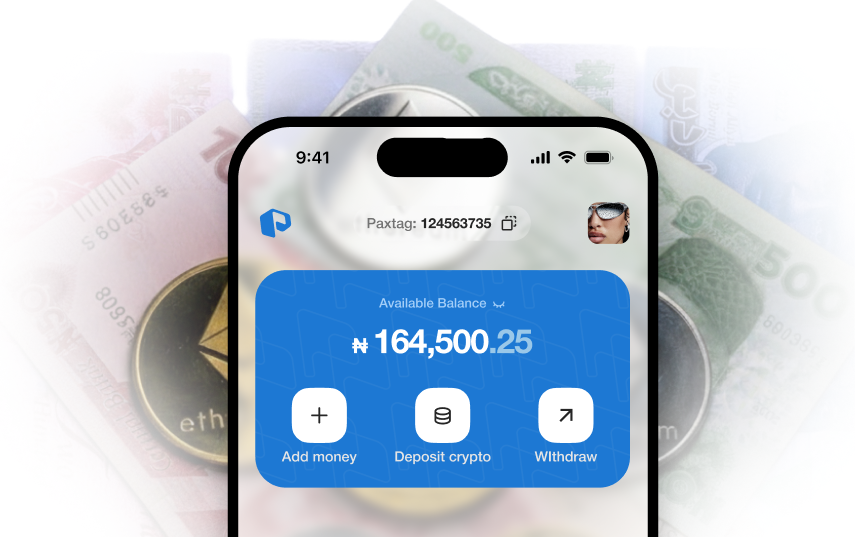
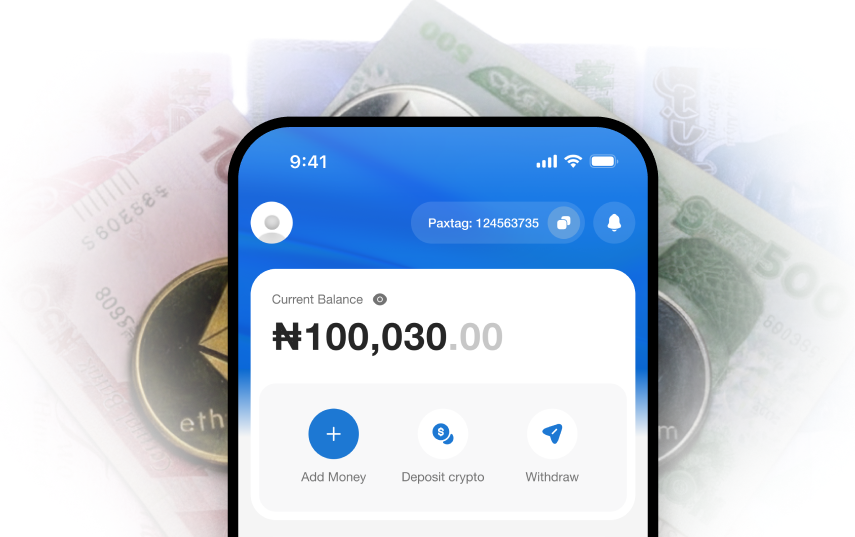
feat: add PrivacyPolicyContent and SpiralSection components along with required assets

diff --git a/src/components/PrivacyPolicyContent.tsx b/src/components/PrivacyPolicyContent.tsx
@@ -1,9 +1,6 @@
 import React from "react";
-import Link from "next/link";
 
-const SITE_URL = "https://paxalpay.com";
 const EMAIL_INFO = "info@paxalpay.com";
-const EMAIL_PRIVACY = "privacy@paxalpay.com";
 
 export default function PrivacyPolicyContent() {
   return (
@@ -11,216 +8,171 @@ export default function PrivacyPolicyContent() {
       <div className="max-w-[1100px] mx-auto px-6">
         <div className="text-center mb-16">
           <h1 className="text-[29px] md:text-[52px] font-bold text-[#262626] mb-4">
-            Privacy Policy
+            Data Privacy Policy
           </h1>
           <p className="text-[#737373] text-[16px]">
-            Last updated: February 3, 2026
+            November, 2022
           </p>
         </div>
 
         <div className="space-y-10 text-[#262626] text-[14px] md:text-[18px] leading-relaxed">
           <section>
-            <h2 className="text-[18px] md:text-[23px] font-bold mb-4">1. Introduction and scope</h2>
             <p className="mb-4">
-              PaxalPay Limited (“<strong>Paxalpay</strong>”, “<strong>we</strong>”, “<strong>us</strong>”, “<strong>our</strong>”) operates the website{" "}
-              <a href={SITE_URL} className="text-blue-600 hover:underline">{SITE_URL}</a>, mobile applications, APIs, and related digital platforms (together, the “<strong>Site</strong>”). We are headquartered in Nigeria and provide financial technology services, including crypto-to-fiat conversion, payments, and related services (the “<strong>Services</strong>”).
+              We at Paxalpay (along with our parents, subsidiaries, and affiliates) respect your privacy and this policy describes our privacy practices regarding our products and services.
             </p>
             <p className="mb-4">
-              This Privacy Policy explains how we collect, use, disclose, store, and protect your personal data when you use our Site and Services. It applies to all visitors, users, and customers (together, “<strong>you</strong>” or “<strong>Users</strong>”). By accessing or using our Site or Services, you agree to this Privacy Policy. If you do not agree, you must not use our Site or Services.
+              A lot of laws exist that govern the personal data involved in financial and digital activity. This summary explains our privacy practices based on those laws. It covers all the processing your personal information might undergo through websites and applications operated by us, as well as to our API.
+            </p>
+            <p className="mb-4">
+              Our Data Privacy Policy explains the reason and context in which Paxalpay collects, utilizes, records, and keeps your personal data. It applies to your interactions with us and your utilization of any of our products and services.
             </p>
             <p>
-              We process personal data in line with applicable law, including the Nigeria Data Protection Act 2023 (NDPA) and, where relevant, other data protection laws. For users in the European Economic Area (EEA) or the United Kingdom, we rely on lawful bases under the GDPR/UK GDPR where applicable.
+              When using our business products such as the API, additional terms and conditions may legally bind you in our Merchant Service Agreement. This summarizes the terms and conditions and our data practices as it applies to everything you do relating to our products and services.
             </p>
           </section>
 
           <section>
-            <h2 className="text-[18px] md:text-[23px] font-bold mb-4">2. Data controller</h2>
+            <h2 className="text-[18px] md:text-[23px] font-bold mb-4">Information You May Control</h2>
+            <p className="mb-4">
+              Once you create a Paxalpay Account, it implies that you have given us your information. We may retain information directly tied to your particular business or personal identity (such as your name, residential address or business, email address, telephone number, transaction data, bank details, credit and debit card numbers, and similar identification data) as well as any other information you or your users may provide. We strongly advise that you DO NOT provide any information that you do not want us to possess.
+            </p>
+            <p className="mb-4">
+              We ask that you do not send us, and you to not disclose, any sensitive Personal Information (e.g., social security numbers, information related to racial or ethnic origin, political opinions, religion or other beliefs, health, biometrics or genetic characteristics, or criminal background) on or through our Services or otherwise to us.
+            </p>
+            <p className="mb-4">
+              We may verify or validate the information you provide in comparison with third-party sources (such as when we process your credit or debit card for the purpose of buying cryptocurrency, or validating your identity) to secure both your integrity and ours.
+            </p>
+            <p className="mb-4">
+              We may also obtain information from different sources (such as public databases) to verify your identity.
+            </p>
             <p>
-              The data controller responsible for your personal data is PaxalPay Limited. For privacy-related requests or complaints you may contact us at{" "}
-              <a href={`mailto:${EMAIL_PRIVACY}`} className="text-blue-600 hover:underline">{EMAIL_PRIVACY}</a> or{" "}
-              <a href={`mailto:${EMAIL_INFO}`} className="text-blue-600 hover:underline">{EMAIL_INFO}</a>.
+              You are required to submit accurate information, as your ability to properly use our product and our capacity to service you is dependent largely on it. If you believe your data is inaccurate, you can change your information, adjust your settings on your account or device or formally write to us using <a href={`mailto:${EMAIL_INFO}`} className="text-[#262626]">info@paxalpay.com</a>.
             </p>
           </section>
 
           <section>
-            <h2 className="text-[18px] md:text-[23px] font-bold mb-4">3. Information we collect</h2>
-            <p className="mb-4">
-              We collect information that identifies you or relates to you (“<strong>Personal Data</strong>”) in the following ways.
-            </p>
-            <h3 className="text-[16px] md:text-[20px] font-semibold mb-3">3.1 Information you provide</h3>
-            <ul className="list-disc pl-6 space-y-2 mb-4">
-              <li><strong>Account and identity:</strong> name, date of birth, email address, phone number, address, government-issued ID, photograph, and biometric data where required for verification.</li>
-              <li><strong>Financial and payment:</strong> bank account details, payment method information, transaction history, and related verification information.</li>
-              <li><strong>Communications:</strong> content of messages you send to us (e.g. via support, chat, or email).</li>
-              <li><strong>Preferences and marketing:</strong> communication preferences and marketing consents where you have opted in.</li>
-            </ul>
-            <h3 className="text-[16px] md:text-[20px] font-semibold mb-3">3.2 Information we collect automatically</h3>
-            <ul className="list-disc pl-6 space-y-2 mb-4">
-              <li><strong>Device and usage:</strong> device type, operating system, unique device identifiers, IP address, browser type, and language.</li>
-              <li><strong>Usage data:</strong> pages visited, features used, time and date of access, and referral source.</li>
-              <li><strong>Location:</strong> approximate or precise location where permitted by your device settings and applicable law.</li>
-            </ul>
-            <h3 className="text-[16px] md:text-[20px] font-semibold mb-3">3.3 Information from third parties</h3>
-            <p className="mb-4">
-              We may receive information from identity verification providers, payment processors, banks, and other partners necessary to provide the Services, prevent fraud, and comply with law.
-            </p>
-            <p>
-              Providing certain data is necessary to use parts of our Services (e.g. account creation and transactions). If you do not provide required information, we may not be able to offer you those Services.
-            </p>
-          </section>
-
-          <section>
-            <h2 className="text-[18px] md:text-[23px] font-bold mb-4">4. How we use your information</h2>
-            <p className="mb-4">We use your Personal Data for the following purposes and, where required by law, on the stated lawful basis:</p>
-            <ul className="list-disc pl-6 space-y-2">
-              <li><strong>Providing the Services:</strong> account creation and management, identity verification, processing deposits, conversions, withdrawals, bill payments, and transfers.</li>
-              <li><strong>Contract performance:</strong> fulfilling our contract with you and communicating about your account and transactions.</li>
-              <li><strong>Security and fraud prevention:</strong> protecting our systems and users, detecting and preventing fraud, money laundering, and other illegal activity.</li>
-              <li><strong>Legal and regulatory compliance:</strong> meeting obligations under the NDPA, anti-money laundering, tax, and other applicable laws and responding to lawful requests from authorities.</li>
-              <li><strong>Improvement and analytics:</strong> analysing usage to improve our Site and Services, develop new features, and conduct research (including in anonymised or aggregated form).</li>
-              <li><strong>Customer support:</strong> responding to your enquiries and resolving issues.</li>
-              <li><strong>Marketing:</strong> sending you product updates and marketing communications only where you have consented or where we are otherwise permitted by law.</li>
-              <li><strong>Automated decision-making:</strong> where we use automated processes (e.g. for fraud or risk assessment), we ensure fairness and, where required, provide you with the right to obtain human review or challenge decisions.</li>
+            <h2 className="text-[18px] md:text-[23px] font-bold mb-4">How We Use The Information We Collect</h2>
+            <p className="mb-4">Paxalpay uses this Data Privacy Policy for any business that we do. Information we collect helps us do the following and more:</p>
+            <ul className="list-disc pl-6 space-y-4">
+              <li>To render our business better to you and all other users; and to assure a smooth, seamless experience in our product and with every payment we dispatch thanks to an accelerated progress of transactions.</li>
+              <li>To research and development relating to the products and services we provide. We'll use information carefully to measure the usage rate of our Services. This helps us ensure our products are safe, well tested, and to see if you use it in the exact way intended, so that we can fix any discrepancies found as we deem fit.</li>
+              <li>To provide tech support</li>
+              <li>For marketing and communicating specific features with our users. Including phishing warning issues, messages for errors, general updates and communicating with you about your account.</li>
+              <li>To manage and limit the risks.</li>
+              <li>For compliance and legal concerns. This includes things like answering regulatory requests from Paxalpay partners as well as verifying your identity in order to meet our legal obligations and our commitment to security.</li>
             </ul>
             <p className="mt-4">
-              We do not use your Personal Data for purposes incompatible with those described above unless we have your consent or a clear legal basis.
+              Note that Paxalpay restricts access to your personal information to Paxalpay employees, sub-contractors and other partners in order to run our business, to assist you in using our products and services, and to provide the features and functionality of our platform to the fullest extent.
             </p>
           </section>
 
           <section>
-            <h2 className="text-[18px] md:text-[23px] font-bold mb-4">5. How we share your information</h2>
-            <p className="mb-4">We may share your Personal Data with:</p>
-            <ul className="list-disc pl-6 space-y-2">
-              <li><strong>Service providers:</strong> cloud hosting, payment processing, identity verification, analytics, email delivery, and other providers who process data on our instructions and under contracts that protect your data.</li>
-              <li><strong>Banking and financial partners:</strong> where necessary to provide settlement, banking, and regulated financial services.</li>
-              <li><strong>Regulators and authorities:</strong> when required by law or to protect our rights, your safety, or the public.</li>
-              <li><strong>Professional advisers:</strong> lawyers, auditors, and insurers where necessary for our operations.</li>
-              <li><strong>Corporate transactions:</strong> in connection with a merger, sale of assets, or other corporate change, subject to the same privacy protections.</li>
+            <h2 className="text-[18px] md:text-[23px] font-bold mb-4">How We Might Share Your Information</h2>
+            <p className="mb-4">We may share your Personal Data with our trusted partners:</p>
+            <ul className="list-disc pl-6 space-y-4">
+              <li>Our affiliates and business partners. We may choose to share your data relating to our services with our partners and affiliates so we may smoothly fulfill our obligations with you and all other parties.</li>
+              <li>Third-party service providers. We may employ companies or individuals to perform functions on our behalf. For instances: identity verification tools, databases analyzing our data, communicating with you, sending receipts, regulations/compliance, legal counsel, and risk, audits. We may share your data with them for these purposes, to the maximum extent permitted by law.</li>
+              <li>Law enforcement authorities or other government entities. Where we are legally bound to do so, in instances when we reasonably believe you contravene any laws applying to our terms of service, and any other agreements with Paxalpay.</li>
+              <li>To Business / merchant partners. We may share your data (some of it) mostly relating to your transaction metadata when you interact or transact with them. This happens so as to fulfill certain security protocols. Any data being shared to a business or merchant by us depends strictly on your interaction with them.</li>
             </ul>
             <p className="mt-4">
-              We do not sell your Personal Data. We may share data with third parties only as described above or with your consent.
+              In addition to the above, we may share Personal Data where you explicitly consent to its disclosure or direct us to share it.
             </p>
           </section>
 
           <section>
-            <h2 className="text-[18px] md:text-[23px] font-bold mb-4">6. International transfers</h2>
+            <h2 className="text-[18px] md:text-[23px] font-bold mb-4">Data Transfer</h2>
             <p className="mb-4">
-              Your data may be transferred to and processed in countries outside Nigeria or your country of residence. Those countries may have different data protection laws. When we transfer data internationally, we implement appropriate safeguards (e.g. standard contractual clauses, adequacy decisions, or other mechanisms recognised by applicable law) to protect your data.
+              Whenever you transfer your data to us, we process it in compliance with the relevant data protection laws within the limits of its requirements. When necessary we may choose to transfer your data outside your country in order to guarantee you standard service quality. We always employ standard protocols to protect our users globally. When you provide us with this information, you agree to its transfer and storage in locations where we process it. Be certain it is solely transferred when necessary and protected globally where permitted.
             </p>
             <p>
-              You may request details of the safeguards we use for international transfers by contacting us at{" "}
-              <a href={`mailto:${EMAIL_PRIVACY}`} className="text-blue-600 hover:underline">{EMAIL_PRIVACY}</a>.
+              We reserve the right to process your Personal Data wherever it is collected, subject to adequate data protection laws or an assessment strictly comparable to our compliance standard.
             </p>
           </section>
 
           <section>
-            <h2 className="text-[18px] md:text-[23px] font-bold mb-4">7. Data retention</h2>
+            <h2 className="text-[18px] md:text-[23px] font-bold mb-4">Data Security And Retention</h2>
             <p className="mb-4">
-              We retain your Personal Data only for as long as necessary to fulfil the purposes set out in this policy, including to provide the Services, comply with legal, tax, and regulatory obligations, resolve disputes, and enforce our agreements.
+              We value your trust in establishing an engagement with us. We understand that your data may be subject to compromise so we guarantee protection of your data through strict security measures. We secure your personal data from loss, unauthorized access, copying, use, modification or disclosure. Only authorized personnel and third parties will be uniquely granted access to any personal data, and this will be strictly done due to a need for that specific data and only as required by law. Please note that no method of transmission of information through cyberspace or method of physical storage is 100% fail-proof. Thus, absolute security cannot be guaranteed.
             </p>
             <p className="mb-4">
-              Typically we retain: (a) account and transaction data for the duration of your relationship with us and for a period thereafter as required by law (e.g. 5–7 years for financial and anti-money laundering compliance); (b) marketing and support communications in line with our internal policies; (c) logs and security-related data for a limited period necessary for security and fraud prevention.
+              In addition, we do not require any particular data relating to religion, political inclination, health and any other data inapplicable to providing our service. Note that when you choose to use our products, it guarantees some level of interaction with third parties when navigating, thus we cannot assure the security of your data on those platforms. Only data relating to Paxalpay services would be handled uniquely and with complete adherence to our standard compliance.
             </p>
             <p>
-              After the retention period, we securely delete or anonymise your data so it no longer identifies you.
+              Please notify us immediately of any compromise you note regarding your data related to us, or within Paxalpay. Any personal data relating to you but in cases requiring your interaction with other sources, please address your concerns with the entity possessing that required data.
             </p>
           </section>
 
           <section>
-            <h2 className="text-[18px] md:text-[23px] font-bold mb-4">8. Security</h2>
-            <p className="mb-4">
-              We implement technical and organisational measures to protect your Personal Data against unauthorised access, alteration, disclosure, or destruction, including encryption, access controls, and secure development practices. Access to Personal Data is limited to personnel and service providers who need it to perform their duties.
-            </p>
-            <p className="mb-4">
-              In the event of a personal data breach that is likely to result in a risk to your rights and freedoms, we will notify the relevant supervisory authority and, where required by law, notify you without undue delay.
-            </p>
+            <h2 className="text-[18px] md:text-[23px] font-bold mb-4">Retention Of Your Personal Data</h2>
             <p>
-              You are responsible for keeping your account credentials confidential. Do not share your password or one-time codes with anyone. If you suspect unauthorised access, contact us immediately at{" "}
-              <a href={`mailto:${EMAIL_INFO}`} className="text-blue-600 hover:underline">{EMAIL_INFO}</a>.
+              We will retain your Personal Data for as long as necessary to fulfill the purposes for which it was collected, and for as long as required by applicable laws. The criteria used to determine our retention periods include among others: the length of time we have an ongoing relationship with you, whether there is a legal obligation to which we are subject, and whether retention is advisable considering our legal position.
             </p>
           </section>
 
           <section>
-            <h2 className="text-[18px] md:text-[23px] font-bold mb-4">9. Cookies and similar technologies</h2>
+            <h2 className="text-[18px] md:text-[23px] font-bold mb-4">Choices And Similar Technologies</h2>
             <p className="mb-4">
-              We and our partners use cookies, web beacons, and similar technologies on our Site to provide functionality, analyse usage, and improve your experience.
+              When you use our Site, we and our partners, affiliates, and third parties may access or collect information. Technologies like Cookies, web beacons and other similar tools may be integrated manually or generally. Do note that they help analyze usage limits, trends and track navigation or traffic flow on our platforms mostly in order to give a better standard.
             </p>
-            <ul className="list-disc pl-6 space-y-2 mb-4">
-              <li><strong>Strictly necessary:</strong> required for the Site to function (e.g. authentication, security). These cannot be disabled.</li>
-              <li><strong>Functional:</strong> remember preferences and settings to improve your experience.</li>
-              <li><strong>Analytics:</strong> help us understand how visitors use our Site (e.g. page views, flows).</li>
-              <li><strong>Marketing:</strong> used only with your consent to deliver relevant ads and measure campaign effectiveness.</li>
+            <p className="mb-4">
+              These tools gather information including Internet Protocol addresses, browser versions or standard metadata, etc. If desired, you may choose to opt out in some instances. To manually decide the extent to which you're involved, please review some available browser tools. Do know omitting the use of these features restricts interaction to our platform.
+            </p>
+            <p className="mb-4">We actively deploy specific tools like:</p>
+            <ul className="list-disc pl-6 space-y-4">
+              <li>Essential/strictly necessary cookies: We may use some cookies primarily relating to the functioning of our functions and features. Like identity and location verification, security tools, and fraud prevention measures.</li>
+              <li>Functionality cookies: These cookies help us track your preferences such as location. Remember, cookies are necessary for navigating and for your experience. They help to remember you on subsequent visits.</li>
+              <li>Other Analytic cookies. These analytics may be applied on our Site. This is purely to analyze the user volume or to assist in managing or determining ad conversions. They show us interactions and track performance to help improve your interaction with our Features.</li>
             </ul>
-            <p>
-              You can manage cookies through your browser settings. Disabling certain cookies may affect the functionality of the Site. For more information, contact us at{" "}
-              <a href={`mailto:${EMAIL_PRIVACY}`} className="text-blue-600 hover:underline">{EMAIL_PRIVACY}</a>.
-            </p>
           </section>
 
           <section>
-            <h2 className="text-[18px] md:text-[23px] font-bold mb-4">10. Your rights</h2>
+            <h2 className="text-[18px] md:text-[23px] font-bold mb-4">Legal Rights Provided To Data Subjects</h2>
             <p className="mb-4">
-              Subject to applicable law (including the NDPA and, where applicable, GDPR/UK GDPR), you may have the right to:
+              Subject to the law, you have a variation of rights regarding your personal data. The scope of your rights may include: the right to access your personal data, rectify it or have it updated, restrict the processing of your data, or withdraw consent previously given. In instances you prefer to opt-out, you may choose to modify your preferences in the App. Alternatively you may restrict marketing content via email links we provide in our mails to you, or further contact us to effect the changes.
             </p>
-            <ul className="list-disc pl-6 space-y-2 mb-4">
-              <li><strong>Access:</strong> request a copy of the Personal Data we hold about you.</li>
-              <li><strong>Rectification:</strong> request correction of inaccurate or incomplete data.</li>
-              <li><strong>Erasure:</strong> request deletion of your data in certain circumstances.</li>
-              <li><strong>Restriction:</strong> request that we limit processing in certain cases.</li>
-              <li><strong>Portability:</strong> receive your data in a structured, machine-readable format where technically feasible.</li>
-              <li><strong>Object:</strong> object to processing based on our legitimate interests or for direct marketing.</li>
-              <li><strong>Withdraw consent:</strong> where we rely on consent, you may withdraw it at any time without affecting the lawfulness of processing before withdrawal.</li>
-              <li><strong>Complain:</strong> lodge a complaint with a data protection supervisory authority.</li>
-            </ul>
             <p className="mb-4">
-              To exercise any of these rights, contact us at{" "}
-              <a href={`mailto:${EMAIL_PRIVACY}`} className="text-blue-600 hover:underline">{EMAIL_PRIVACY}</a> or{" "}
-              <a href={`mailto:${EMAIL_INFO}`} className="text-blue-600 hover:underline">{EMAIL_INFO}</a>. We will respond within the timeframe required by applicable law and may need to verify your identity. We may not be able to fulfil a request where it would conflict with legal obligations or the rights of others.
+              Please note that exercising your rights could affect the full functionality of the product. And we may retain certain data for compliance or legal requests in retaining your data, or verifying it in keeping with our legal obligations. While you hold these privileges, Paxalpay reserves the right to decline your request, if we reasonably ascertain that our request to fulfill the request isn't legally required.
             </p>
             <p>
-              If you are in the EEA or UK, you have the right to lodge a complaint with your local data protection authority. In Nigeria, you may contact the Nigeria Data Protection Commission (NDPC).
+              You fully comprehend that at any point, your interactions, transactions or generally information relating to our services, or via other related means, that we reasonably believe requires compliance, we may retain such data.
             </p>
           </section>
 
           <section>
-            <h2 className="text-[18px] md:text-[23px] font-bold mb-4">11. Children</h2>
-            <p>
-              Our Site and Services are not directed at anyone under 18. We do not knowingly collect Personal Data from anyone under 18. If you believe we have collected data from a minor, please contact us at{" "}
-              <a href={`mailto:${EMAIL_PRIVACY}`} className="text-blue-600 hover:underline">{EMAIL_PRIVACY}</a> and we will delete it promptly.
-            </p>
-          </section>
-
-          <section>
-            <h2 className="text-[18px] md:text-[23px] font-bold mb-4">12. Third-party links</h2>
-            <p>
-              Our Site may contain links to third-party websites or services. We are not responsible for their privacy practices. This Privacy Policy applies only to our Site and Services. We encourage you to read the privacy policies of any third-party sites you visit.
-            </p>
-          </section>
-
-          <section>
-            <h2 className="text-[18px] md:text-[23px] font-bold mb-4">13. Changes to this policy</h2>
+            <h2 className="text-[18px] md:text-[23px] font-bold mb-4">Links To Other Websites</h2>
             <p className="mb-4">
-              We may update this Privacy Policy from time to time. We will post the updated version on this page and update the “Last updated” date. For material changes, we will notify you by email (to the address associated with your account) or through a prominent notice on our Site before the change takes effect.
+              Our Platform may contain links to websites owned by third parties. Please note that we are not responsible for the privacy practices of such websites.
             </p>
             <p>
-              Your continued use of our Site or Services after the effective date of any change constitutes acceptance of the updated policy. We encourage you to review this page periodically.
+              Note that linking out your operations by interacting or using services available on other platforms means you are to respect their privacy choices. Paxalpay strongly suggests that our users familiarizes themselves with those pages or platforms before visiting. There are requirements by those providers upon receiving personal or non-personal data relating to individuals via any linked website. Paxalpay will not normally be liable for any related data usage incidents. However, in any likelihood you notice any breach as they relate strictly to our interactions and with our products, do direct us immediately via the appropriate channels as soon as reasonably possible.
+            </p>
+          </section>
+
+          <section>
+            <h2 className="text-[18px] md:text-[23px] font-bold mb-4">Children</h2>
+            <p className="mb-4">
+              Paxalpay understands the importance of protecting children's privacy. Children are therefore strictly advised not to be registered on or utilize any Paxalpay products or services below 18.
+            </p>
+            <p>
+              Paxalpay platforms and apps are not intended for use by persons under 18. Anyone utilizing any of Paxalpay's products below 18 is therefore operating with fraudulent information, and as such if it comes to our notice, the information will be destroyed.
+            </p>
+          </section>
+
+          <section>
+            <h2 className="text-[18px] md:text-[23px] font-bold mb-4">Changes To This Privacy Policy</h2>
+            <p>
+              From time to time, Paxalpay reserves the right to update this privacy policy globally or otherwise. We will normally directly reflect any newly introduced or adjusted feature for your clarity and notice. You understand that this page is solely responsible to communicate the updates.
             </p>
           </section>
 
           <section className="mb-8">
-            <h2 className="text-[18px] md:text-[23px] font-bold mb-4">14. Contact us</h2>
+            <h2 className="text-[18px] md:text-[23px] font-bold mb-4">Contact</h2>
             <p className="mb-4">
-              For questions about this Privacy Policy or our data practices, or to exercise your rights:
+              If you have any questions relating to anything on the privacy statement, our information or our general practice as a user across our service platforms or with partners, please reach out to us at <a href={`mailto:${EMAIL_INFO}`} className="text-[#262626]">info@paxalpay.com</a>.
             </p>
-            <ul className="list-none space-y-1 mb-4">
-              <li>Email: <a href={`mailto:${EMAIL_PRIVACY}`} className="text-blue-600 hover:underline">{EMAIL_PRIVACY}</a> (privacy) or <a href={`mailto:${EMAIL_INFO}`} className="text-blue-600 hover:underline">{EMAIL_INFO}</a> (general)</li>
-              <li>Website: <Link href="/help" className="text-blue-600 hover:underline">{SITE_URL}/help</Link> (support)</li>
-            </ul>
-            <p className="mb-4">
-              If you believe your data has been mishandled, please contact us as above. We will investigate and respond within the timeframes required by applicable law (e.g. 72 hours for initial acknowledgment where required under the NDPA).
-            </p>
-            <p className="font-medium mt-8">
-              Your use of our Site and Services constitutes acceptance of this Privacy Policy.
+            <p>
+              You could also direct correspondence to our support channel.
             </p>
           </section>
         </div>

diff --git a/src/components/SpiralSection.tsx b/src/components/SpiralSection.tsx
@@ -27,7 +27,7 @@ export default function SpiralSection() {
           </div>
 
           <div className="absolute bottom-0 left-1/2 -translate-x-1/2 z-10">
-            <Image src="/middle.png" alt="App phone" width={320} height={380} className="flex-shrink-0" priority />
+            <Image src="/middle2.png" alt="App phone" width={320} height={380} className="flex-shrink-0" priority />
           </div>
         </div>
 
@@ -45,7 +45,7 @@ export default function SpiralSection() {
           </div>
 
           <div className="absolute bottom-0 left-1/2 -translate-x-1/2 z-10">
-            <Image src="/middle.png" alt="App phone" width={400} height={480} className="flex-shrink-0" priority />
+            <Image src="/middle2.png" alt="App phone" width={400} height={480} className="flex-shrink-0" priority />
           </div>
 
           <div className="absolute bottom-[150px] left-[calc(50%-580px)]">
